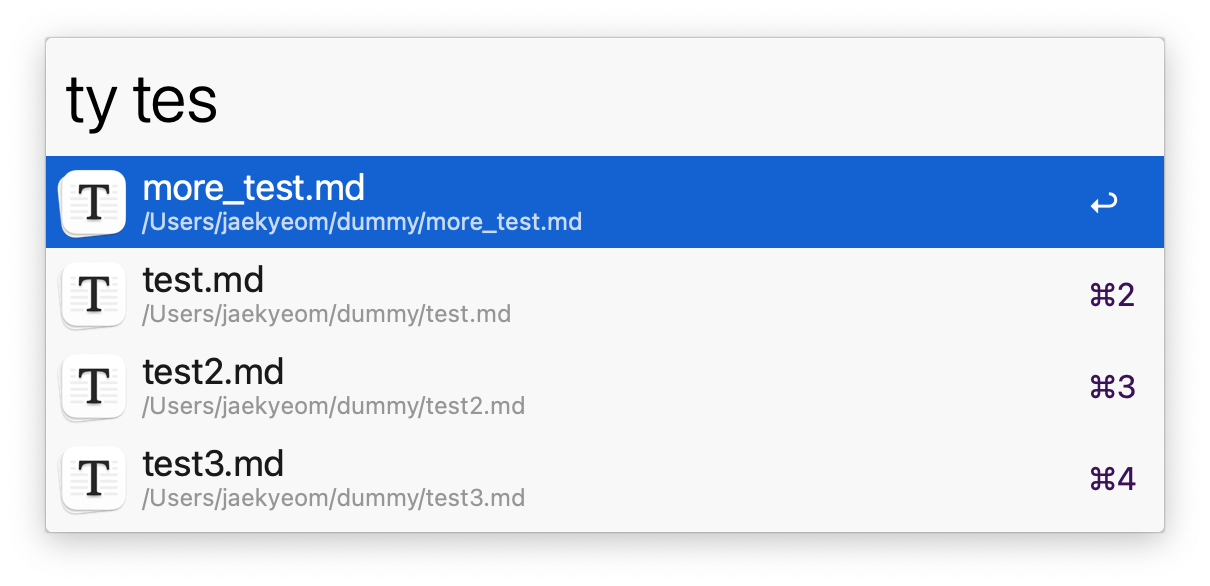
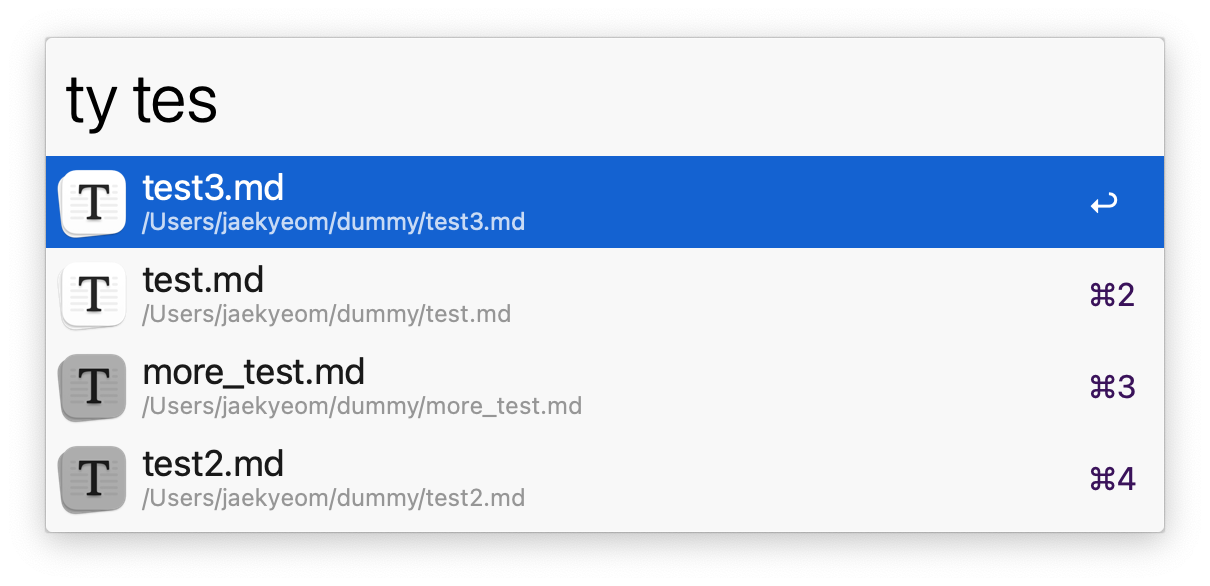
Update documentation.

diff --git a/README.md b/README.md
@@ -1,6 +1,7 @@
 # Alfred Typora Workflow
 
-Alfred workflow for querying and activating (+ α) open [Typora](https://typora.io/) documents.
+Alfred workflow for querying and opening/closing [Typora](https://typora.io/) documents.  
+It automatically searches the Git repositories or directories for markdown files, by default.
 
 <p align="center">
 <img alt="Typora workflow screenshot" src="./screenshot.png" width="70%" />
@@ -12,9 +13,13 @@ Download and install [Typora-Documents.alfredworkflow](https://github.com/jaekye
 
 ## Usage
 
-- `ty {query}`
-  - `↩`: Activate the selected document.
-  - `⌥ + ↩`: Close the selected document.
+- `ty {query}`: Query Typora documents.
+  - `↩`: Open/activate the selected document.
+  - `⌥ + ↩`: Close the selected document (if it's open).
+
+## Configurations
+
+- `LIST_ONLY_OPEN_DOCS`: If set to 0 (default), it queries open documents and markdown files from the parent Git repositories or directories. If set to 1, it only queries open documents.
 
 ## Credits
 
